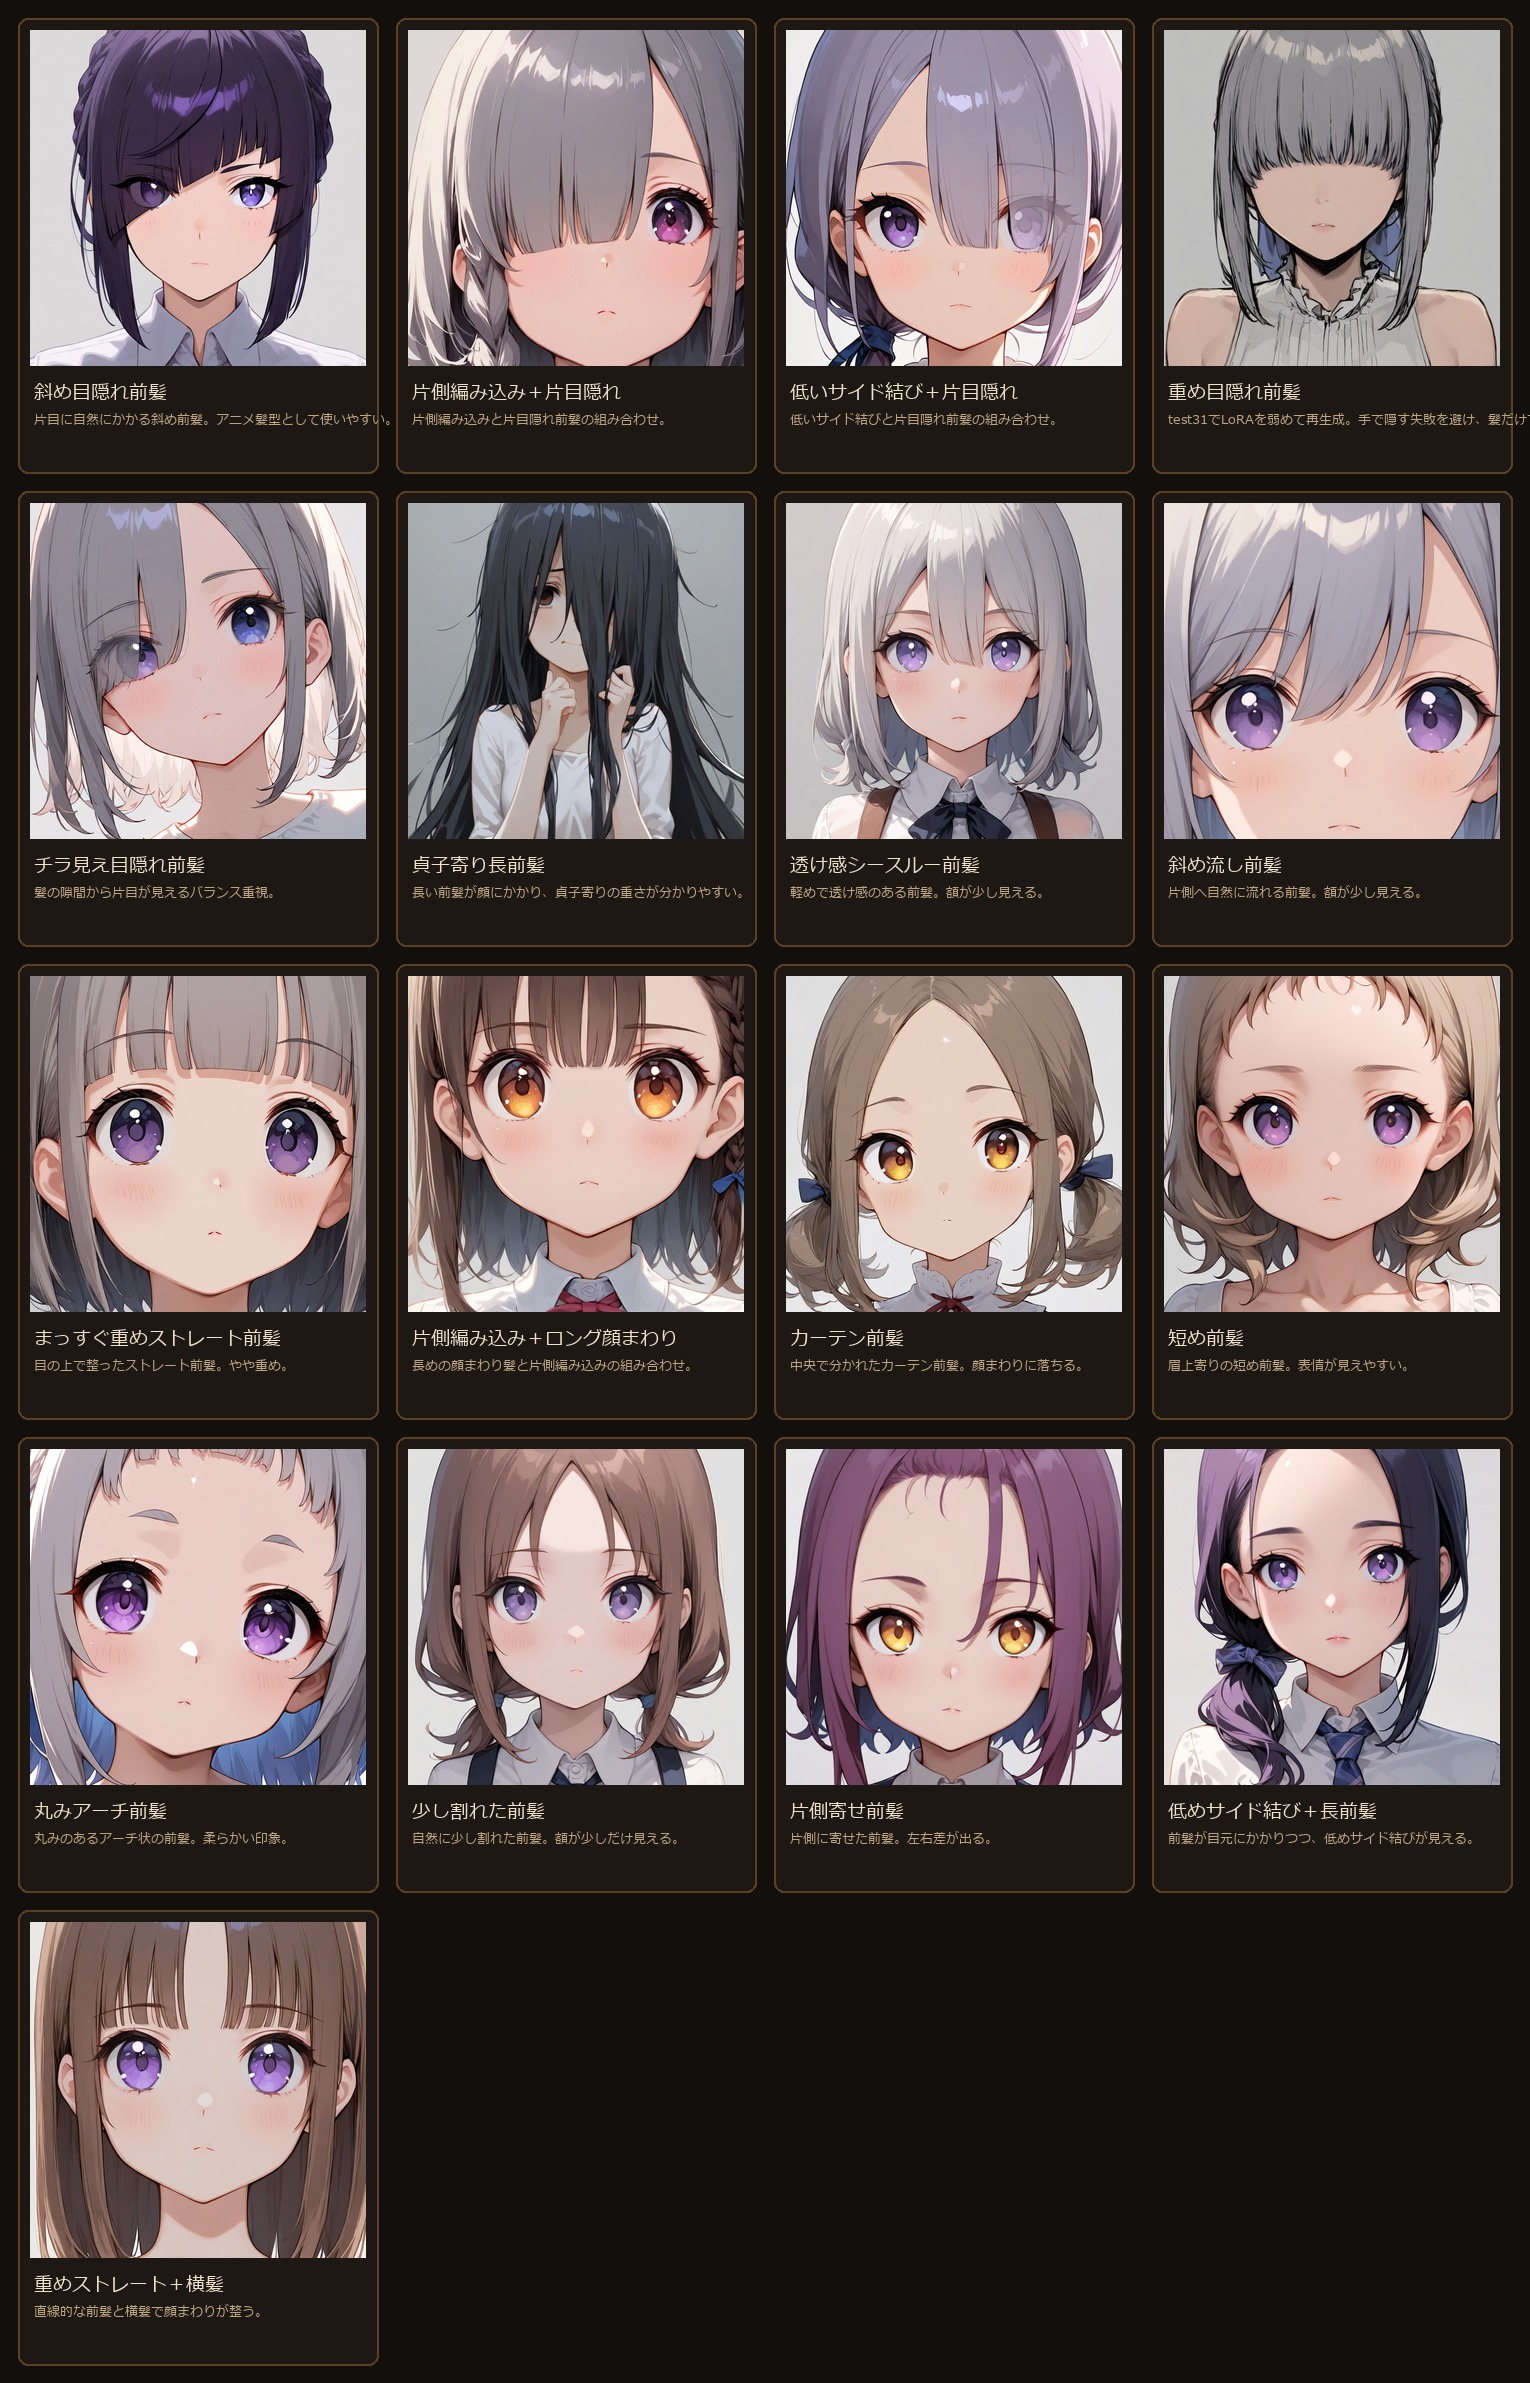
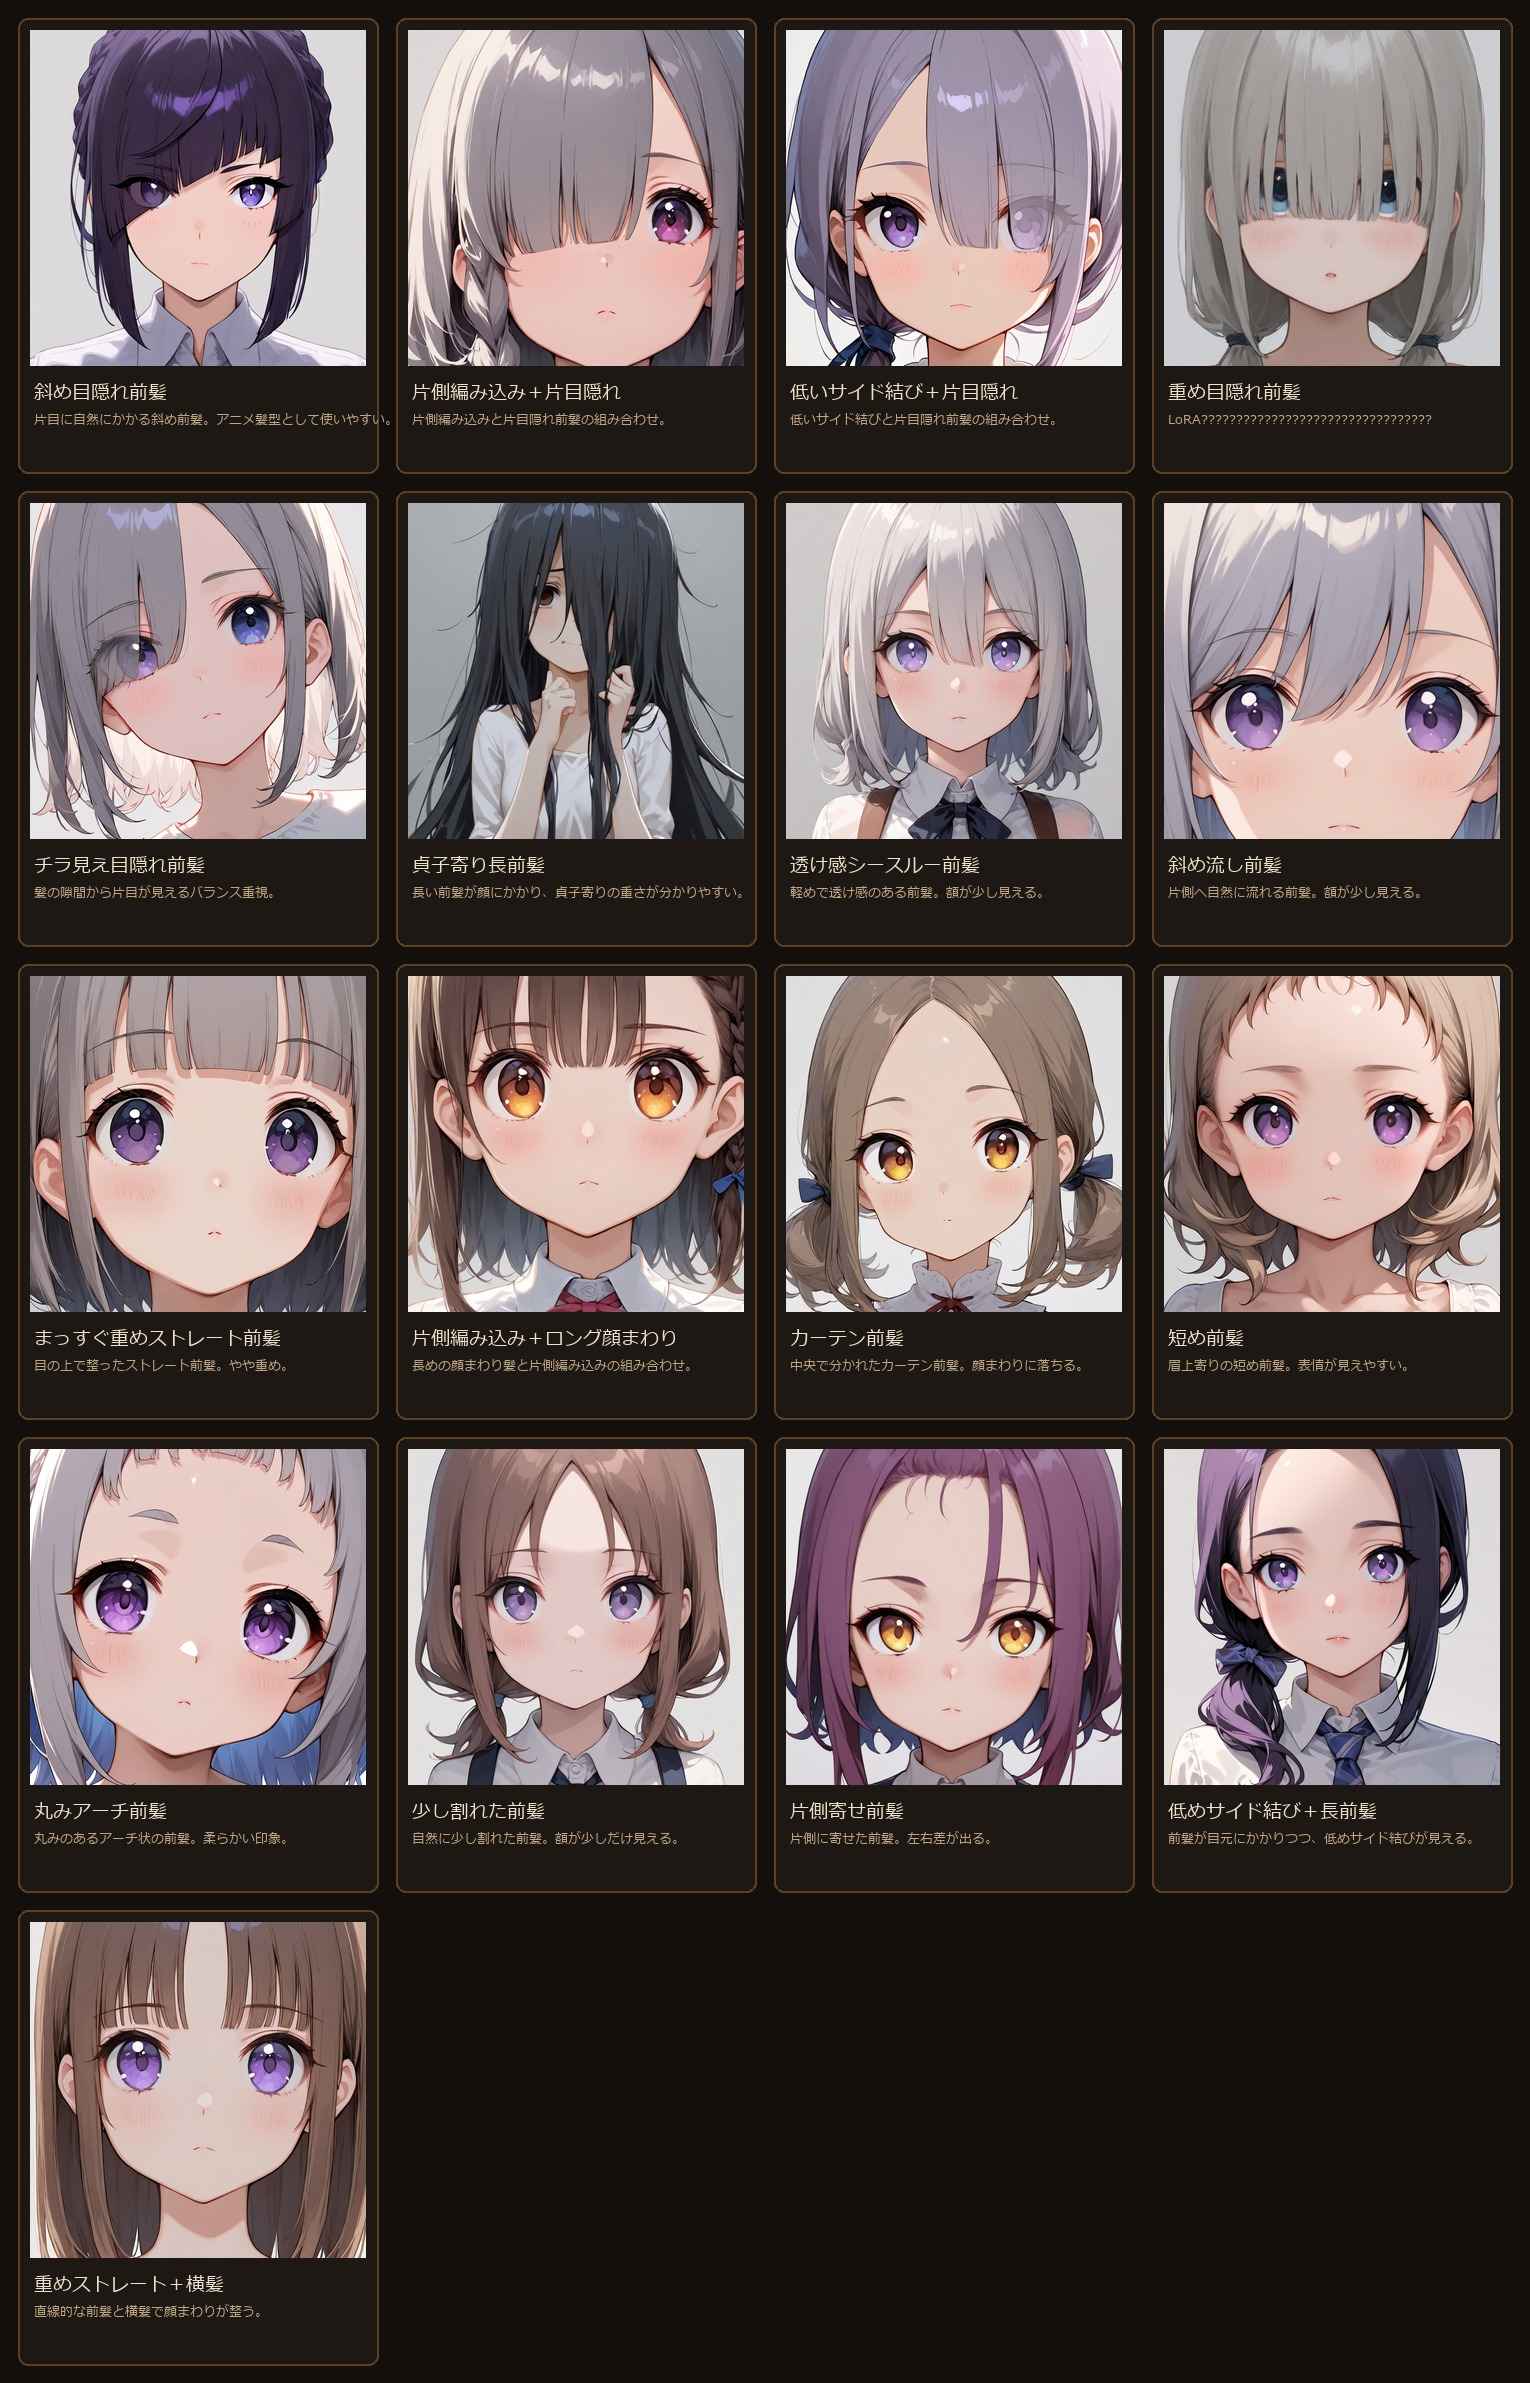
Add third heavy bangs sample

Changed region(s): [[0.7373, 0.0, 0.983, 0.1553]]

diff --git a/assets/js/research-sample-candidates.js b/assets/js/research-sample-candidates.js
@@ -3503,12 +3503,18 @@ window.researchSampleCandidates = {
       "jp_label": "重め目隠れ前髪",
       "role": "main",
       "focus": "重い前髪が目元にかかるか",
-      "expected_result": "前髪だけで目元を覆う重めの目隠れ感が分かりやすい。",
-      "filename": "heavy_bangs_covering_eyes_front_hair_cover_3543428578_05.png",
-      "reason": "手を使わず、厚い前髪で両目が隠れる方向が最も伝わりやすい。",
+      "expected_result": "髪だけで目元を覆う重めの前髪として、目隠れ感が分かりやすい。",
+      "filename": "heavy_bangs_covering_eyes_front_hair_cover_2144367168_10.png",
+      "reason": "手を使わず、厚い前髪で目元が隠れる方向が伝わりやすい。",
       "source_path": "test31/heavy_bangs_covering_eyes",
-      "asset_path": "assets/research/bangs/test31/heavy_bangs_covering_eyes/heavy_bangs_covering_eyes_front_hair_cover_3543428578_05.png",
+      "asset_path": "assets/research/bangs/test31/heavy_bangs_covering_eyes/heavy_bangs_covering_eyes_front_hair_cover_2144367168_10.png",
       "samples": [
+        {
+          "asset_path": "assets/research/bangs/test31/heavy_bangs_covering_eyes/heavy_bangs_covering_eyes_front_hair_cover_2144367168_10.png",
+          "label": "front",
+          "angle": "front_hair_cover",
+          "filename": "heavy_bangs_covering_eyes_front_hair_cover_2144367168_10.png"
+        },
         {
           "asset_path": "assets/research/bangs/test31/heavy_bangs_covering_eyes/heavy_bangs_covering_eyes_front_hair_cover_3543428578_05.png",
           "label": "front",
@@ -3516,10 +3522,10 @@ window.researchSampleCandidates = {
           "filename": "heavy_bangs_covering_eyes_front_hair_cover_3543428578_05.png"
         },
         {
-          "asset_path": "assets/research/bangs/test31/heavy_bangs_covering_eyes/heavy_bangs_covering_eyes_front_hair_cover_2144367168_10.png",
+          "asset_path": "assets/research/bangs/test31/heavy_bangs_covering_eyes/heavy_bangs_covering_eyes_front_hair_cover_3202872199_02.png",
           "label": "front",
           "angle": "front_hair_cover",
-          "filename": "heavy_bangs_covering_eyes_front_hair_cover_2144367168_10.png"
+          "filename": "heavy_bangs_covering_eyes_front_hair_cover_3202872199_02.png"
         }
       ],
       "stage": "candidate",
@@ -3527,7 +3533,7 @@ window.researchSampleCandidates = {
       "positive_hair_prompt": "(heavy opaque bangs covering both eyes:1.75), hair curtain over eyes, long thick front bangs falling naturally over the eyes, eyes fully hidden by hair only",
       "negative_hair_prompt": "forehead visible, thin bangs, short bangs, see-through bangs, parted bangs, hands covering eyes, fingers over face",
       "fixed_face_prompt": "",
-      "verification_note": "test31でLoRAを弱めて再生成。手で隠す失敗を避け、髪だけで目元を覆う候補を採用。",
+      "verification_note": "LoRAを弱めて再生成。手で隠す失敗を避け、髪だけで目元を覆う候補を採用。",
       "prompt_source_file": "髪型プロンプト検証用_テスト31_重め目隠れ前髪_LoRA弱め.xlsx",
       "prompt_source_sheet": "PromptThemes",
       "final_status": "adopted",
